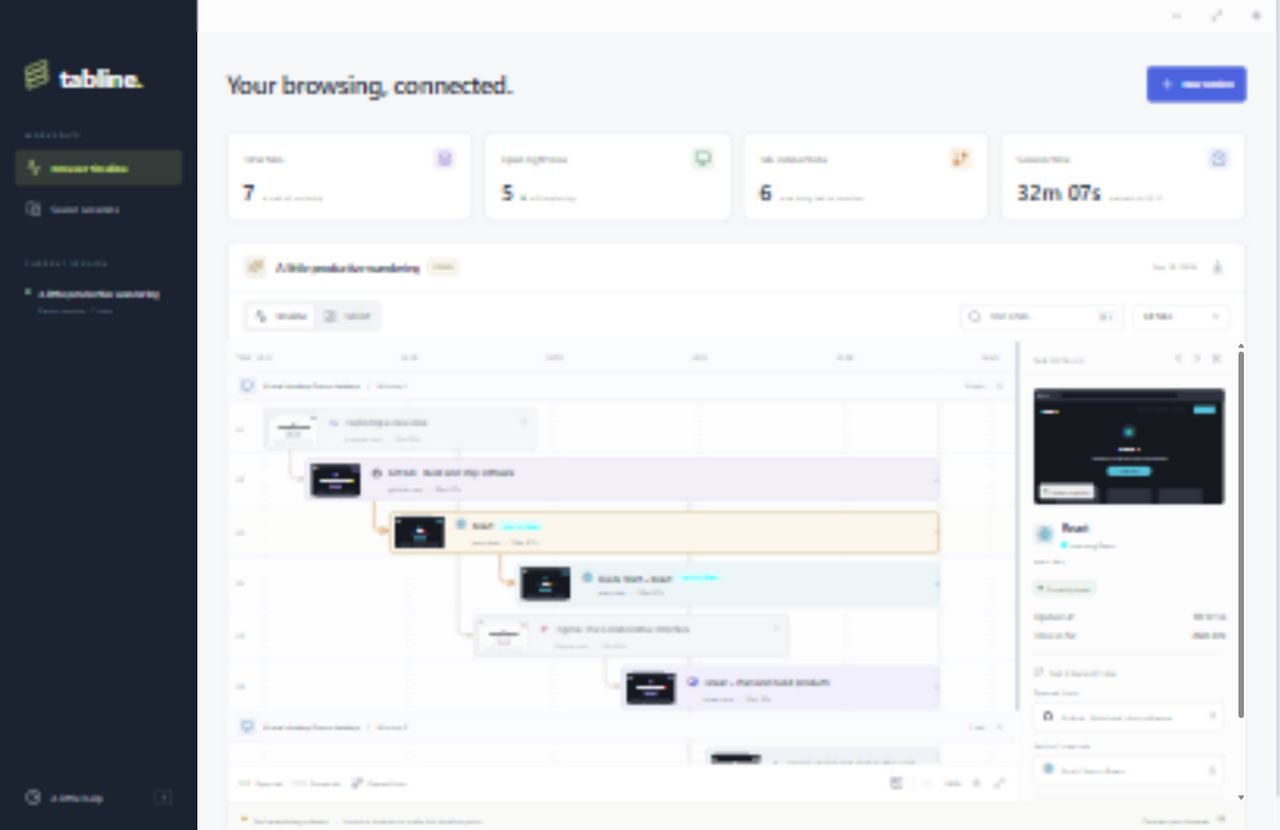
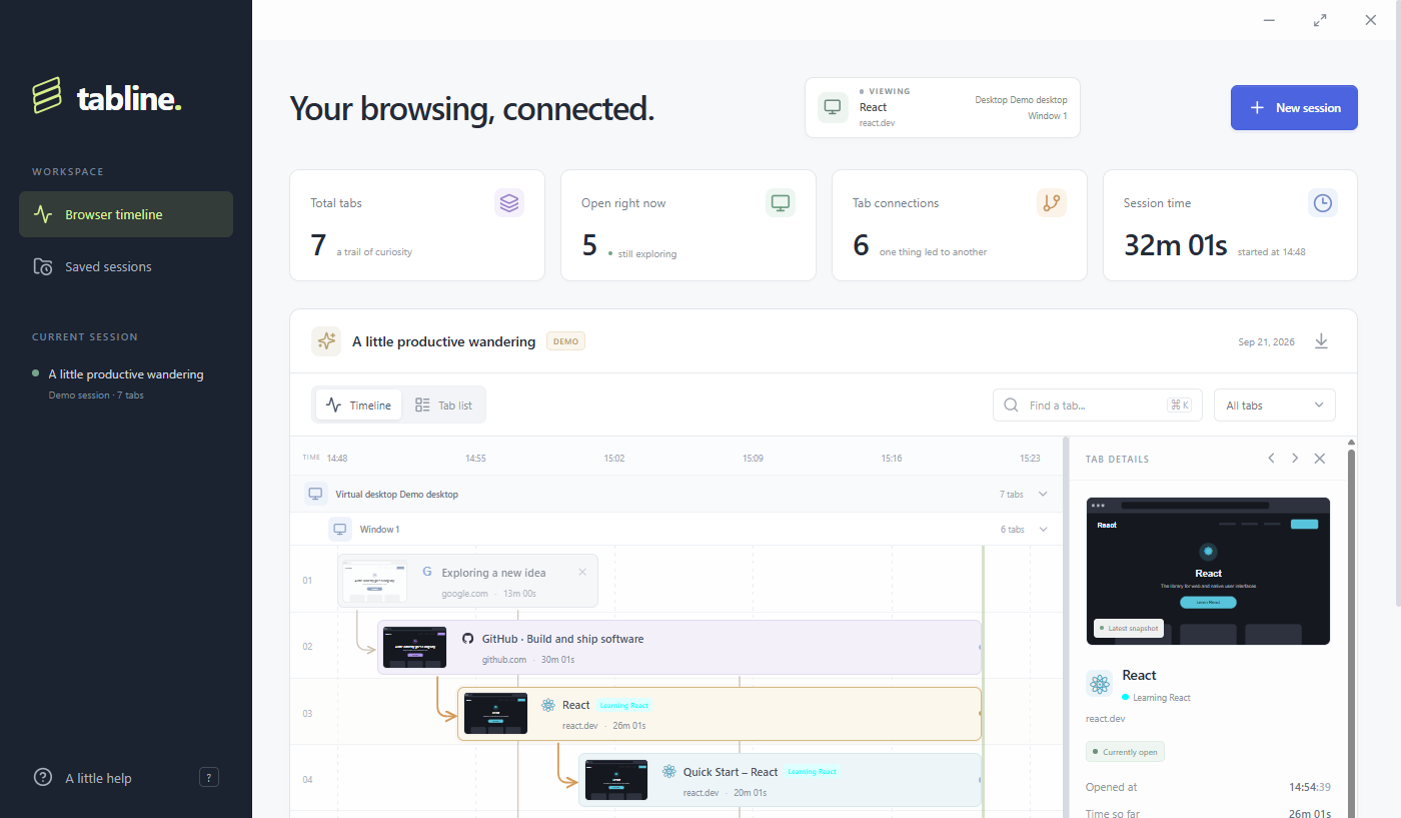
Release Tabline 0.1.5

diff --git a/src/App.tsx b/src/App.tsx
@@ -3,7 +3,7 @@ import {
   Activity, ArrowDownToLine, ArrowRight, ArrowUpRight, Check, ChevronDown,
   ChevronLeft, ChevronRight, CircleHelp, Clock3, ExternalLink, FolderClock, FolderOpen,
   FolderPlus, GitBranch, Globe2, Image, Layers3, LayoutList, Maximize2, Monitor,
-  Pencil, Plus, Radio, RefreshCw, Search, Settings2, ShieldCheck, Sparkles, Square, Trash2, X, Minus,
+  Pencil, Plus, Radio, RefreshCw, Search, Settings2, ShieldCheck, Snowflake, Sparkles, Square, Trash2, X, Minus,
 } from 'lucide-react';
 import type { AppState, BrowserChoice, BrowserTab, Folder, Session, SessionSummary } from './types';
 import { makeDemo } from './demo';
@@ -66,6 +66,7 @@ export default function App() {
   const [dragging, setDragging] = useState<{ type: 'folder' | 'session'; id: string } | null>(null);
   const [dropTarget, setDropTarget] = useState<string | null>(null);
   const [sessionDropTarget, setSessionDropTarget] = useState<{ id: string; position: 'before' | 'after' } | null>(null);
+  const [selectedSessionId, setSelectedSessionId] = useState<string | null>(null);
   const [editingSessionId, setEditingSessionId] = useState<string | null>(null);
   const [sessionName, setSessionName] = useState('');
   const [deletingSession, setDeletingSession] = useState<SessionSummary | null>(null);
@@ -124,6 +125,7 @@ export default function App() {
     if (!api) return;
     const [nextSessions, nextFolders] = await Promise.all([api.listSessions(), api.listFolders()]);
     setSessions(nextSessions);
+    setSelectedSessionId((id) => id && nextSessions.some((item) => item.id === id) ? id : null);
     setFolders(nextFolders);
   }
   async function restoreSessionById(id: string) {
@@ -134,6 +136,7 @@ export default function App() {
       setState(result.state);
       setArchived(null);
       setDemo(null);
+      setSelectedSessionId(null);
       setSelectedId(null);
       setPage('workspace');
       setQuery('');
@@ -261,7 +264,7 @@ export default function App() {
       {collapsed && <div className="folder-separator" style={{ marginLeft: contentIndent }}/>} 
     </div>;
   };
-  const renderSession = (item: SessionSummary, indent: number): React.ReactNode => <SessionRow key={item.id} item={item} options={folderOptions} indent={indent} onMove={moveSession} disabled={state.status !== 'idle' && state.status !== 'error'} dragging={dragging?.type === 'session' && dragging.id === item.id} dropPosition={sessionDropTarget?.id === item.id ? sessionDropTarget.position : null} onDragStart={(event) => beginDrag('session', item.id, event)} onDragEnd={endDrag} onDragOver={(event) => dragOverSession(item.id, event)} onDrop={(event) => dropOnSession(item.id, event)} onView={() => action(async () => { setArchived(await api!.loadSession(item.id)); setDemo(null); setSelectedId(null); setPage('workspace'); setQuery(''); setFilter('all'); })} onRestore={() => restoreSession(item)} editing={editingSessionId === item.id} sessionName={sessionName} onSessionNameChange={setSessionName} onRenameStart={() => startRenameSession(item)} onRenameSave={renameSession} onRenameCancel={cancelRenameSession} onDelete={() => setDeletingSession(item)}/>;
+  const renderSession = (item: SessionSummary, indent: number): React.ReactNode => <SessionRow key={item.id} item={item} options={folderOptions} indent={indent} onMove={moveSession} disabled={state.status !== 'idle' && state.status !== 'error'} selected={selectedSessionId === item.id} onSelect={() => setSelectedSessionId(item.id)} dragging={dragging?.type === 'session' && dragging.id === item.id} dropPosition={sessionDropTarget?.id === item.id ? sessionDropTarget.position : null} onDragStart={(event) => beginDrag('session', item.id, event)} onDragEnd={endDrag} onDragOver={(event) => dragOverSession(item.id, event)} onDrop={(event) => dropOnSession(item.id, event)} onView={() => action(async () => { setArchived(await api!.loadSession(item.id)); setDemo(null); setSelectedSessionId(null); setSelectedId(null); setPage('workspace'); setQuery(''); setFilter('all'); })} onRestore={() => restoreSession(item)} editing={editingSessionId === item.id} sessionName={sessionName} onSessionNameChange={setSessionName} onRenameStart={() => startRenameSession(item)} onRenameSave={renameSession} onRenameCancel={cancelRenameSession} onDelete={() => setDeletingSession(item)}/>;
 
   return <div className="app-shell">
     <header className="window-titlebar">
@@ -311,7 +314,7 @@ export default function App() {
                   {!session || !session.tabs.length ? <div className="empty-state launch-empty"><div className="empty-illustration"><span/><span/><span/><GitBranch size={30}/></div><span className="eyebrow">FOLLOW YOUR CURIOSITY</span><h3>Big ideas start with a new tab.</h3><p>Launch Helium or Chrome and watch your browsing<br/>journey come together, one connection at a time.</p><button className="button primary" onClick={() => setShowLaunch(true)}><Plus size={16}/>Launch a browser</button><button className="text-button" onClick={exploreDemo}>Or take a look around with a demo <ArrowRight size={14}/></button></div> : !filtered.length ? <div className="empty-state"><Search size={30}/><h3>No tabs on this trail.</h3><p>Try a different search or show all tabs.</p><button className="button secondary" onClick={() => { setQuery(''); setFilter('all'); }}>Clear filters</button></div> : view === 'timeline' ? <Timeline tabs={filtered} allTabs={session.tabs} session={session} now={sessionNow} time={restoreTime} onTimeChange={setTimelineTime} selectedId={selectedId} onSelect={setSelectedId} onFocus={focusTab} thumbnails={showThumbnails} connections={showConnections} zoom={zoom}/> : <TabList tabs={tabsAtTimelineTime} now={restoreTime} selectedId={selectedId} currentTabId={currentTab?.id || null} onSelect={setSelectedId} onFocus={focusTab}/>} 
                 <div className="timeline-footer"><div className="legend"><span><i className="legend-line open"/>Open tab</span><span><i className="legend-line closed"/>Closed tab</span><button className={!showConnections ? 'muted' : ''} onClick={() => setShowConnections(!showConnections)} title="Toggle opener connections"><GitBranch size={13}/>Opened from</button></div><div className="zoom-controls"><button className={!showThumbnails ? 'muted' : ''} onClick={() => setShowThumbnails(!showThumbnails)} title="Toggle thumbnails" aria-label="Toggle thumbnails" aria-pressed={showThumbnails}><Image size={15}/></button><span className="control-divider"/><button onClick={() => setZoom(Math.max(1, zoom - 0.5))} disabled={zoom === 1} aria-label="Zoom out"><Minus size={14}/></button><span>{Math.round(zoom * 100)}%</span><button onClick={() => setZoom(Math.min(4, zoom + 0.5))} disabled={zoom === 4} aria-label="Zoom in"><Plus size={14}/></button><button onClick={() => setZoom(1)} aria-label="Fit timeline" title="Fit timeline"><Maximize2 size={13}/></button></div></div>
               </div>
-              {selected && session && <TabDetail tab={selected} session={session} now={sessionNow} onClose={() => setSelectedId(null)} onSelect={setSelectedId} isLive={isLive} onFocus={() => action(() => api!.focusTab(selected.id))} onCapture={() => action(async () => { const image = await api!.capture(selected.id); if (!image) throw new Error('This tab is no longer available for capture.'); }, 'Thumbnail refreshed.')} onCloseTab={() => action(() => api!.closeTab(selected.id), 'Tab closed. Its place in your timeline is saved.')}/>}
+              {selected && session && <TabDetail tab={selected} session={session} now={sessionNow} onClose={() => setSelectedId(null)} onSelect={setSelectedId} isLive={isLive} onFocus={() => action(() => api!.focusTab(selected.id))} onCapture={() => action(async () => { const image = await api!.capture(selected.id); if (!image) throw new Error('This tab is no longer available for capture.'); }, 'Thumbnail refreshed.')} onFreeze={() => action(async () => { const result = await api!.freezeTab(selected.id); if (!result.shortUrl) throw new Error('This tab could not be frozen.'); }, 'Tab frozen into a local snapshot.')} onUnfreeze={() => action(async () => { const result = await api!.unfreezeTab(selected.id); if (!result.originalUrl) throw new Error('This tab could not be returned.'); }, 'Returned to the original page.')} onCloseTab={() => action(() => api!.closeTab(selected.id), 'Tab closed. Its place in your timeline is saved.')}/>}
             </div>
             <div className="connection-bar"><div><span className={`tiny-dot ${isLive ? 'green' : demo ? 'orange' : 'gray'}`}/>{demo ? <><strong>You’re exploring a demo</strong><span>·</span><span>Launch a browser to make this timeline yours.</span></> : isLive ? <><strong>Connected to {session?.browser === 'helium' ? 'Helium' : 'Chrome'}</strong><span>·</span><span>127.0.0.1:{state.debugPort}</span></> : <><strong>{archived || session?.endedAt ? 'Session saved locally' : 'Ready to connect'}</strong><span>·</span><span>{archived || session?.endedAt ? 'Your trail is right where you left it.' : 'Helium or Chrome. Your choice.'}</span></>}</div>{demo ? <button onClick={() => setShowLaunch(true)}>Connect your browser <ArrowRight size={13}/></button> : <span className="connection-note"><ShieldCheck size={13}/>{isLive ? 'Recording locally' : 'Only on your device'}</span>}</div>
           </section>
@@ -330,6 +333,38 @@ function Stat({ icon, label, value, detail, color }: { icon: React.ReactNode; la
   return <div className="stat-card"><div className="stat-top"><span>{label}</span><span className={`stat-icon ${color}`}>{icon}</span></div><div className="stat-value">{value}<span className="stat-detail">{detail}</span></div></div>;
 }
 
+type WindowTabGroup = { key: string; window: string; tabs: BrowserTab[] };
+type DesktopTabGroup = { key: string; desktop: string; tabs: BrowserTab[]; windows: WindowTabGroup[] };
+
+function groupTabsByDesktop(tabs: BrowserTab[]): DesktopTabGroup[] {
+  const desktops = new Map<string, DesktopTabGroup>();
+  for (const tab of tabs) {
+    const desktop = tab.desktopId || 'unknown';
+    const window = tab.windowId || 'unknown';
+    let desktopGroup = desktops.get(desktop);
+    if (!desktopGroup) {
+      desktopGroup = { key: `desktop:${desktop}`, desktop, tabs: [], windows: [] };
+      desktops.set(desktop, desktopGroup);
+    }
+    let windowGroup = desktopGroup.windows.find((group) => group.window === window);
+    if (!windowGroup) {
+      windowGroup = { key: `window:${desktop}:${window}`, window, tabs: [] };
+      desktopGroup.windows.push(windowGroup);
+    }
+    desktopGroup.tabs.push(tab);
+    windowGroup.tabs.push(tab);
+  }
+  return [...desktops.values()];
+}
+
+function locationLabel(value: string, unavailable: string) {
+  return value === 'unknown' ? unavailable : value;
+}
+
+function desktopLabel(value: string) {
+  return value === 'unknown' ? 'Virtual desktop unavailable' : `Virtual desktop ${value.length > 14 ? `${value.slice(0, 8)}...` : value}`;
+}
+
 function CurrentContext({ tab, live }: { tab: BrowserTab | null; live: boolean }) {
   const desktop = tab?.desktopId && tab.desktopId !== 'unknown' ? tab.desktopId : null;
   const desktopLabel = desktop ? (desktop.length > 14 ? `${desktop.slice(0, 8)}...` : desktop) : 'Unavailable';
@@ -338,44 +373,30 @@ function CurrentContext({ tab, live }: { tab: BrowserTab | null; live: boolean }
 
 function TabList({ tabs, now, selectedId, currentTabId, onSelect, onFocus }: { tabs: BrowserTab[]; now: number; selectedId: string | null; currentTabId: string | null; onSelect: (id: string) => void; onFocus: (id: string) => void }) {
   const [collapsed, setCollapsed] = useState<Set<string>>(new Set());
-  const groups = Array.from(tabs.reduce((map, tab) => {
-    const key = `${tab.desktopId || 'unknown'}::${tab.windowId || 'unknown'}`;
-    if (!map.has(key)) map.set(key, []);
-    map.get(key)!.push(tab);
-    return map;
-  }, new Map<string, BrowserTab[]>()).entries());
   const toggle = (key: string) => setCollapsed((prev) => {
     const next = new Set(prev);
     if (next.has(key)) next.delete(key); else next.add(key);
     return next;
   });
-  return <div className="tab-list"><div className="tab-list-heading"><span>PAGE</span><span>OPENED</span><span>DURATION</span><span>STATUS</span></div>{groups.map(([key, group]) => { const [desktop, window] = key.split('::'); const current = group.some((tab) => tab.id === currentTabId); const isCollapsed = collapsed.has(key); return <Fragment key={key}><button type="button" className={`tab-list-separator ${current ? 'current' : ''} ${isCollapsed ? 'collapsed' : ''}`} title={desktop === 'unknown' ? undefined : desktop} onClick={() => toggle(key)} aria-expanded={!isCollapsed}><span className="group-mark"><Monitor size={12}/></span><strong>{desktop === 'unknown' ? 'Virtual desktop unavailable' : `Virtual desktop ${desktop.length > 14 ? `${desktop.slice(0, 8)}...` : desktop}`}</strong><span className="group-separator">/</span><span>Window {window === 'unknown' ? 'unknown' : window}</span><span className="group-count">{group.length} {group.length === 1 ? 'tab' : 'tabs'}</span>{current && <span className="current-group-label">CURRENT</span>}<span className="separator-chevron">{isCollapsed ? <ChevronRight size={12}/> : <ChevronDown size={12}/>}</span></button>{!isCollapsed && group.map((tab) => <button key={tab.id} className={`tab-list-row ${tab.id === selectedId ? 'selected' : ''} ${tab.id === currentTabId ? 'current' : ''}`} onClick={() => onSelect(tab.id)} onDoubleClick={() => { if (!tab.closedAt) onFocus(tab.id); }}><div className="tab-list-title"><SiteIcon tab={tab}/><div><strong>{tab.title}</strong><span>{domain(tab.originalUrl || tab.url)}</span></div></div><span>{clock(tab.openedAt)}</span><span>{duration((tab.closedAt || now) - tab.openedAt)}</span><span className={`status-label ${tab.closedAt ? 'closed' : tab.frozen ? 'frozen' : 'open'}`}><span className="tiny-dot"/>{tab.closedAt ? 'Closed' : tab.frozen ? 'Frozen' : 'Open'}</span></button>)}</Fragment>; })}</div>;
+  const groups = groupTabsByDesktop(tabs);
+  return <div className="tab-list"><div className="tab-list-heading"><span>PAGE</span><span>OPENED</span><span>DURATION</span><span>STATUS</span></div>{groups.map((desktopGroup) => { const desktopCollapsed = collapsed.has(desktopGroup.key); const current = desktopGroup.tabs.some((tab) => tab.id === currentTabId); return <Fragment key={desktopGroup.key}><button type="button" className={`tab-list-separator desktop-separator ${current ? 'current' : ''} ${desktopCollapsed ? 'collapsed' : ''}`} title={desktopGroup.desktop === 'unknown' ? undefined : desktopGroup.desktop} onClick={() => toggle(desktopGroup.key)} aria-expanded={!desktopCollapsed}><span className="group-mark"><Monitor size={12}/></span><strong>{desktopLabel(desktopGroup.desktop)}</strong><span className="group-count">{desktopGroup.tabs.length} {desktopGroup.tabs.length === 1 ? 'tab' : 'tabs'}</span>{current && <span className="current-group-label">CURRENT</span>}<span className="separator-chevron">{desktopCollapsed ? <ChevronRight size={12}/> : <ChevronDown size={12}/>}</span></button>{!desktopCollapsed && desktopGroup.windows.map((windowGroup) => { const windowCollapsed = collapsed.has(windowGroup.key); return <Fragment key={windowGroup.key}><button type="button" className={`tab-list-separator window-separator ${windowGroup.tabs.some((tab) => tab.id === currentTabId) ? 'current' : ''} ${windowCollapsed ? 'collapsed' : ''}`} onClick={() => toggle(windowGroup.key)} aria-expanded={!windowCollapsed}><span className="group-mark"><Monitor size={11}/></span><span>Window {locationLabel(windowGroup.window, 'unknown')}</span><span className="group-count">{windowGroup.tabs.length} {windowGroup.tabs.length === 1 ? 'tab' : 'tabs'}</span><span className="separator-chevron">{windowCollapsed ? <ChevronRight size={12}/> : <ChevronDown size={12}/>}</span></button>{!windowCollapsed && windowGroup.tabs.map((tab) => <button key={tab.id} className={`tab-list-row ${tab.id === selectedId ? 'selected' : ''} ${tab.id === currentTabId ? 'current' : ''}`} onClick={() => onSelect(tab.id)} onDoubleClick={() => { if (!tab.closedAt) onFocus(tab.id); }}><div className="tab-list-title"><SiteIcon tab={tab}/><div><strong>{tab.title}</strong><span>{domain(tab.originalUrl || tab.url)}</span></div></div><span>{clock(tab.openedAt)}</span><span>{duration((tab.closedAt || now) - tab.openedAt)}</span><span className={`status-label ${tab.closedAt ? 'closed' : tab.frozen ? 'frozen' : 'open'}`}><span className="tiny-dot"/>{tab.closedAt ? 'Closed' : tab.frozen ? 'Frozen' : 'Open'}</span></button>)}</Fragment>; })}</Fragment>; })}</div>;
 }
 
-function SessionRow({ item, options, onMove, onView, onRestore, disabled, indent, dragging, dropPosition, onDragStart, onDragEnd, onDragOver, onDrop, editing, sessionName, onSessionNameChange, onRenameStart, onRenameSave, onRenameCancel, onDelete }: { item: SessionSummary; options: { folder: Folder; depth: number }[]; onMove: (sessionId: string, folderId: string | null) => void; onView: () => void; onRestore: () => void; disabled: boolean; indent: number; dragging: boolean; dropPosition: 'before' | 'after' | null; onDragStart: (event: React.DragEvent) => void; onDragEnd: () => void; onDragOver: (event: React.DragEvent) => void; onDrop: (event: React.DragEvent) => void; editing: boolean; sessionName: string; onSessionNameChange: (value: string) => void; onRenameStart: () => void; onRenameSave: () => void; onRenameCancel: () => void; onDelete: () => void }) {
-  return <div className={`saved-session ${dragging ? 'dragging' : ''} ${dropPosition ? `drop-${dropPosition}` : ''} ${editing ? 'editing' : ''}`} style={{ paddingLeft: indent }} onDragOver={onDragOver} onDrop={onDrop}>{editing ? <div className="session-rename"><input autoFocus aria-label="Rename session" value={sessionName} onChange={(event) => onSessionNameChange(event.target.value)} onKeyDown={(event) => { if (event.key === 'Enter') onRenameSave(); if (event.key === 'Escape') onRenameCancel(); }}/><button onClick={onRenameSave} aria-label="Save session name"><Check size={14}/></button><button onClick={onRenameCancel} aria-label="Cancel"><X size={14}/></button></div> : <><button className="saved-session-view" draggable onClick={onView} onDragStart={onDragStart} onDragEnd={onDragEnd} title="Drag to reorder"><span className="saved-session-icon"><FolderClock size={22}/></span><div><strong>{item.name}</strong><span>{date(item.startedAt)} · {clock(item.startedAt)} · {item.browser === 'helium' ? 'Helium' : 'Chrome'}</span></div><span>{item.tabCount} tabs</span><ArrowRight size={18}/></button><label className="saved-session-folder" title="Move to folder"><FolderOpen size={13}/><span className="select-wrap"><select aria-label={`Move ${item.name} to folder`} value={item.folderId || ''} onChange={(event) => onMove(item.id, event.target.value || null)}><option value="">Unfiled</option>{options.map(({ folder, depth: optionDepth }) => <option key={folder.id} value={folder.id}>{'\u00A0'.repeat(optionDepth * 2)}{folder.name}</option>)}</select><ChevronDown size={13}/></span></label><div className="saved-session-actions"><button onClick={onRenameStart} aria-label={`Rename ${item.name}`} title="Rename session"><Pencil size={13}/></button><button onClick={onDelete} aria-label={`Delete ${item.name}`} title="Delete session"><Trash2 size={13}/></button></div><button className="button secondary restore-session" disabled={disabled} onClick={onRestore}><RefreshCw size={14}/>Restore</button></>}</div>;
+function SessionRow({ item, options, onMove, onView, onRestore, disabled, indent, selected, onSelect, dragging, dropPosition, onDragStart, onDragEnd, onDragOver, onDrop, editing, sessionName, onSessionNameChange, onRenameStart, onRenameSave, onRenameCancel, onDelete }: { item: SessionSummary; options: { folder: Folder; depth: number }[]; onMove: (sessionId: string, folderId: string | null) => void; onView: () => void; onRestore: () => void; disabled: boolean; indent: number; selected: boolean; onSelect: () => void; dragging: boolean; dropPosition: 'before' | 'after' | null; onDragStart: (event: React.DragEvent) => void; onDragEnd: () => void; onDragOver: (event: React.DragEvent) => void; onDrop: (event: React.DragEvent) => void; editing: boolean; sessionName: string; onSessionNameChange: (value: string) => void; onRenameStart: () => void; onRenameSave: () => void; onRenameCancel: () => void; onDelete: () => void }) {
+  return <div className={`saved-session ${selected ? 'selected' : ''} ${dragging ? 'dragging' : ''} ${dropPosition ? `drop-${dropPosition}` : ''} ${editing ? 'editing' : ''}`} style={{ paddingLeft: indent }} onDragOver={onDragOver} onDrop={onDrop}>{editing ? <div className="session-rename"><input autoFocus aria-label="Rename session" value={sessionName} onChange={(event) => onSessionNameChange(event.target.value)} onKeyDown={(event) => { if (event.key === 'Enter') onRenameSave(); if (event.key === 'Escape') onRenameCancel(); }}/><button onClick={onRenameSave} aria-label="Save session name"><Check size={14}/></button><button onClick={onRenameCancel} aria-label="Cancel"><X size={14}/></button></div> : <><button className="saved-session-view" draggable onClick={onSelect} onDoubleClick={onView} onDragStart={onDragStart} onDragEnd={onDragEnd} title="Click to select, double-click to open"><span className="saved-session-icon"><FolderClock size={22}/></span><div><strong>{item.name}</strong><span>{date(item.startedAt)} · {clock(item.startedAt)} · {item.browser === 'helium' ? 'Helium' : 'Chrome'}</span></div><span>{item.tabCount} tabs</span><ArrowRight size={18}/></button><label className="saved-session-folder" title="Move to folder"><FolderOpen size={13}/><span className="select-wrap"><select aria-label={`Move ${item.name} to folder`} value={item.folderId || ''} onChange={(event) => onMove(item.id, event.target.value || null)}><option value="">Unfiled</option>{options.map(({ folder, depth: optionDepth }) => <option key={folder.id} value={folder.id}>{'\u00A0'.repeat(optionDepth * 2)}{folder.name}</option>)}</select><ChevronDown size={13}/></span></label><div className="saved-session-actions"><button onClick={onRenameStart} aria-label={`Rename ${item.name}`} title="Rename session"><Pencil size={13}/></button><button onClick={onDelete} aria-label={`Delete ${item.name}`} title="Delete session"><Trash2 size={13}/></button></div><button className="button secondary restore-session" disabled={disabled} onClick={onRestore}><RefreshCw size={14}/>Restore</button></>}</div>;
 }
 
 function Timeline({ tabs, allTabs, session, now, time, onTimeChange, selectedId, onSelect, onFocus, thumbnails, connections, zoom }: { tabs: BrowserTab[]; allTabs: BrowserTab[]; session: Session; now: number; time: number; onTimeChange: (time: number) => void; selectedId: string | null; onSelect: (id: string) => void; onFocus: (id: string) => void; thumbnails: boolean; connections: boolean; zoom: number }) {
   const [collapsed, setCollapsed] = useState<Set<string>>(new Set());
-  const groups = Array.from(tabs.reduce((map, tab) => {
-    const key = `${tab.desktopId || 'unknown'}::${tab.windowId || 'unknown'}`;
-    if (!map.has(key)) map.set(key, []);
-    map.get(key)!.push(tab);
-    return map;
-  }, new Map<string, BrowserTab[]>()).entries()).map(([key, group]) => {
-    const [desktop, window] = key.split('::');
-    return { key, desktop, window, tabs: group };
-  });
   const toggle = (key: string) => setCollapsed((prev) => {
     const next = new Set(prev);
     if (next.has(key)) next.delete(key); else next.add(key);
     return next;
   });
-  return <TimelineCanvas groups={groups} allTabs={allTabs} session={session} now={now} time={time} onTimeChange={onTimeChange} selectedId={selectedId} onSelect={onSelect} onFocus={onFocus} thumbnails={thumbnails} connections={connections} zoom={zoom} collapsed={collapsed} onToggle={toggle}/>;
+  return <TimelineCanvas groups={groupTabsByDesktop(tabs)} allTabs={allTabs} session={session} now={now} time={time} onTimeChange={onTimeChange} selectedId={selectedId} onSelect={onSelect} onFocus={onFocus} thumbnails={thumbnails} connections={connections} zoom={zoom} collapsed={collapsed} onToggle={toggle}/>;
 }
 
-function TimelineCanvas({ groups, allTabs, session, now, time, onTimeChange, selectedId, onSelect, onFocus, thumbnails, connections, zoom, collapsed, onToggle }: { groups: { key: string; desktop: string; window: string; tabs: BrowserTab[] }[]; allTabs: BrowserTab[]; session: Session; now: number; time: number; onTimeChange: (time: number) => void; selectedId: string | null; onSelect: (id: string) => void; onFocus: (id: string) => void; thumbnails: boolean; connections: boolean; zoom: number; collapsed: Set<string>; onToggle: (key: string) => void }) {
+function TimelineCanvas({ groups, allTabs, session, now, time, onTimeChange, selectedId, onSelect, onFocus, thumbnails, connections, zoom, collapsed, onToggle }: { groups: DesktopTabGroup[]; allTabs: BrowserTab[]; session: Session; now: number; time: number; onTimeChange: (time: number) => void; selectedId: string | null; onSelect: (id: string) => void; onFocus: (id: string) => void; thumbnails: boolean; connections: boolean; zoom: number; collapsed: Set<string>; onToggle: (key: string) => void }) {
   const viewportRef = useRef<HTMLDivElement>(null);
   const canvasRef = useRef<HTMLDivElement>(null);
   const [draggingTime, setDraggingTime] = useState(false);
@@ -413,26 +434,47 @@ function TimelineCanvas({ groups, allTabs, session, now, time, onTimeChange, sel
   const headerHeight = 35;
   const headingHeight = 34;
 
-  const sections = groups.map((group) => ({ ...group, isCollapsed: collapsed.has(group.key) }));
+  const sections = groups.map((group) => ({ ...group, isCollapsed: collapsed.has(group.key), windows: group.windows.map((window) => ({ ...window, isCollapsed: collapsed.has(window.key) })) }));
   let cursor = headerHeight;
   const rowY = new Map<string, number>();
   const visibleTabs: BrowserTab[] = [];
   for (const section of sections) {
     cursor += headingHeight;
     if (!section.isCollapsed) {
-      for (const tab of section.tabs) {
-        rowY.set(tab.id, cursor + rowHeight / 2);
-        visibleTabs.push(tab);
-        cursor += rowHeight;
+      for (const window of section.windows) {
+        cursor += headingHeight;
+        if (!window.isCollapsed) {
+          for (const tab of window.tabs) {
+            rowY.set(tab.id, cursor + rowHeight / 2);
+            visibleTabs.push(tab);
+            cursor += rowHeight;
+          }
+        }
       }
     }
   }
   const contentHeight = Math.max(460, cursor + 34);
 
+  const renderTab = (tab: BrowserTab) => {
+    const left = x(tab.openedAt);
+    const barWidth = Math.max(8, x(tab.closedAt || now) - left);
+    const showImage = thumbnails && barWidth > 160;
+    const number = allTabs.findIndex((item) => item.id === tab.id) + 1;
+    return <div className={`timeline-row ${selectedId === tab.id ? 'selected' : ''}`} key={tab.id} style={{ height: rowHeight }}>
+      <span className="row-number">{String(number).padStart(2, '0')}</span>
+      <button title={`${tab.title}\n${tab.originalUrl || tab.url}\nOpened ${clock(tab.openedAt)}${tab.closedAt ? ` · Closed ${clock(tab.closedAt)}` : ' · Still open'}${tab.frozen ? '\nFrozen snapshot' : ''}${tab.groupTitle ? `\nGroup: ${tab.groupTitle}` : ''}`} aria-label={`View ${tab.title}`} className={`tab-bar ${siteColor(tab)} ${tab.closedAt ? 'is-closed' : ''} ${tab.frozen ? 'is-frozen' : ''} ${selectedId === tab.id ? 'is-selected' : ''} ${barWidth < 120 ? 'compact' : ''}`} style={{ left, width: barWidth }} onClick={() => onSelect(tab.id)} onDoubleClick={() => { if (!tab.closedAt) onFocus(tab.id); }}>
+        {showImage && <span className="bar-thumbnail">{tab.thumbnail ? <img src={tab.thumbnail} alt={`Thumbnail of ${tab.title}`}/> : <Globe2 size={23}/>}</span>}
+        <span className="bar-content"><span className="bar-title"><SiteIcon tab={tab} size="small"/><strong>{tab.title}</strong>{tab.frozen && <span className="group-chip frozen-chip">FROZEN</span>}{tab.groupTitle && <span className="group-chip" style={{ '--group-color': tab.groupColor || '#9ca8bb' } as React.CSSProperties}>{tab.groupTitle}</span>}{tab.closedAt && barWidth > 200 && <X size={11}/>}</span><span className="bar-subtitle">{domain(tab.originalUrl || tab.url)}<span>·</span>{duration((tab.closedAt || now) - tab.openedAt)}</span></span>
+        {!tab.closedAt && <span className="bar-end-dot"/>}
+      </button>
+      {barWidth < 120 && <button className="overflow-tab-label" style={{ left: Math.min(left + barWidth + 7, width - 115) }} onClick={() => onSelect(tab.id)} onDoubleClick={() => { if (!tab.closedAt) onFocus(tab.id); }}>{siteName(tab)}</button>}
+    </div>;
+  };
+
   return <div className="timeline-scroll" ref={viewportRef}><div className="timeline-canvas" ref={canvasRef} style={{ width, minHeight: contentHeight }}>
-     <div className="axis-header"><span className="axis-start">TIME</span>{Array.from({ length: 6 }, (_, i) => <span key={i} style={{ left: padding + i * plotWidth / 5 }}>{clock(session.startedAt + span * i / 5)}</span>)}</div>
-     <div className="grid-lines">{Array.from({ length: 6 }, (_, i) => <i key={i} style={{ left: padding + i * plotWidth / 5 }}/>)}</div>
-     <div className={`now-line ${draggingTime ? 'dragging' : ''}`} style={{ left: nowX }} role="slider" aria-label="Timeline position" aria-valuemin={session.startedAt} aria-valuemax={session.endedAt || now} aria-valuenow={time} tabIndex={0} onPointerDown={startTimeDrag} onPointerMove={moveTimeDrag} onPointerUp={endTimeDrag} onPointerCancel={endTimeDrag} onKeyDown={(event) => { if (event.key === 'ArrowLeft' || event.key === 'ArrowRight') { event.preventDefault(); const step = Math.max(1000, Math.round(span / 100)); onTimeChange(Math.max(session.startedAt, Math.min(session.endedAt || now, time + (event.key === 'ArrowRight' ? step : -step)))); } }}><span>{clock(time)}</span><i/></div>
+    <div className="axis-header"><span className="axis-start">TIME</span>{Array.from({ length: 6 }, (_, i) => <span key={i} style={{ left: padding + i * plotWidth / 5 }}>{clock(session.startedAt + span * i / 5)}</span>)}</div>
+    <div className="grid-lines">{Array.from({ length: 6 }, (_, i) => <i key={i} style={{ left: padding + i * plotWidth / 5 }}/>)}</div>
+    <div className={`now-line ${draggingTime ? 'dragging' : ''}`} style={{ left: nowX }} role="slider" aria-label="Timeline position" aria-valuemin={session.startedAt} aria-valuemax={session.endedAt || now} aria-valuenow={time} tabIndex={0} onPointerDown={startTimeDrag} onPointerMove={moveTimeDrag} onPointerUp={endTimeDrag} onPointerCancel={endTimeDrag} onKeyDown={(event) => { if (event.key === 'ArrowLeft' || event.key === 'ArrowRight') { event.preventDefault(); const step = Math.max(1000, Math.round(span / 100)); onTimeChange(Math.max(session.startedAt, Math.min(session.endedAt || now, time + (event.key === 'ArrowRight' ? step : -step)))); } }}><span>{clock(time)}</span><i/></div>
     {connections && <svg className="connections" width={width} height={contentHeight} aria-label="Tab opener connections"><defs><marker id="arrow" markerWidth="7" markerHeight="7" refX="5" refY="3" orient="auto"><path d="M0,0 L6,3 L0,6" fill="none" stroke="#b09a7b" strokeWidth="1.2"/></marker><marker id="arrow-selected" markerWidth="7" markerHeight="7" refX="5" refY="3" orient="auto"><path d="M0,0 L6,3 L0,6" fill="none" stroke="#d49b58" strokeWidth="1.2"/></marker></defs>{visibleTabs.map((tab) => {
       const openerId = tab.openerId;
       if (!openerId) return null;
@@ -448,18 +490,18 @@ function TimelineCanvas({ groups, allTabs, session, now, time, onTimeChange, sel
       const active = tab.id === selectedId || tab.openerId === selectedId;
       return <path key={tab.id} d={`M ${sourceX} ${sourceY} L ${sourceX} ${targetY - bend} Q ${sourceX} ${targetY} ${sourceX + 9} ${targetY} L ${targetX - 3} ${targetY}`} stroke={active ? '#d49b58' : '#b7aa98'} strokeWidth={active ? 1.6 : 1.2} opacity={active ? 1 : 0.65} fill="none" markerEnd={`url(#${active ? 'arrow-selected' : 'arrow'})`}/>;
     })}</svg>}
-    <div className="timeline-rows">{sections.map((section) => <Fragment key={section.key}><button type="button" className={`timeline-separator ${section.isCollapsed ? 'collapsed' : ''}`} onClick={() => onToggle(section.key)} aria-expanded={!section.isCollapsed}><span className="group-mark"><Monitor size={13}/></span><strong>{section.desktop === 'unknown' ? 'Virtual desktop not available' : `Virtual desktop ${section.desktop}`}</strong><span className="group-separator">/</span><span>Window {section.window === 'unknown' ? 'unknown' : section.window}</span><span className="group-count">{section.tabs.length} {section.tabs.length === 1 ? 'tab' : 'tabs'}</span><span className="separator-chevron">{section.isCollapsed ? <ChevronRight size={13}/> : <ChevronDown size={13}/>}</span></button>{!section.isCollapsed && section.tabs.map((tab) => {
-      const left = x(tab.openedAt);
-      const barWidth = Math.max(8, x(tab.closedAt || now) - left);
-      const showImage = thumbnails && barWidth > 160;
-      const number = allTabs.findIndex((item) => item.id === tab.id) + 1;
-        return <div className={`timeline-row ${selectedId === tab.id ? 'selected' : ''}`} key={tab.id} style={{ height: rowHeight }}><span className="row-number">{String(number).padStart(2, '0')}</span><button title={`${tab.title}\n${tab.originalUrl || tab.url}\nOpened ${clock(tab.openedAt)}${tab.closedAt ? ` · Closed ${clock(tab.closedAt)}` : ' · Still open'}${tab.frozen ? '\nFrozen snapshot' : ''}${tab.groupTitle ? `\nGroup: ${tab.groupTitle}` : ''}`} aria-label={`View ${tab.title}`} className={`tab-bar ${siteColor(tab)} ${tab.closedAt ? 'is-closed' : ''} ${tab.frozen ? 'is-frozen' : ''} ${selectedId === tab.id ? 'is-selected' : ''} ${barWidth < 120 ? 'compact' : ''}`} style={{ left, width: barWidth }} onClick={() => onSelect(tab.id)} onDoubleClick={() => { if (!tab.closedAt) onFocus(tab.id); }}>{showImage && <span className="bar-thumbnail">{tab.thumbnail ? <img src={tab.thumbnail} alt={`Thumbnail of ${tab.title}`}/> : <Globe2 size={23}/>}</span>}<span className="bar-content"><span className="bar-title"><SiteIcon tab={tab} size="small"/><strong>{tab.title}</strong>{tab.frozen && <span className="group-chip frozen-chip">FROZEN</span>}{tab.groupTitle && <span className="group-chip" style={{ '--group-color': tab.groupColor || '#9ca8bb' } as React.CSSProperties}>{tab.groupTitle}</span>}{tab.closedAt && barWidth > 200 && <X size={11}/>}</span><span className="bar-subtitle">{domain(tab.originalUrl || tab.url)}<span>·</span>{duration((tab.closedAt || now) - tab.openedAt)}</span></span>{!tab.closedAt && <span className="bar-end-dot"/>}</button>{barWidth < 120 && <button className="overflow-tab-label" style={{ left: Math.min(left + barWidth + 7, width - 115) }} onClick={() => onSelect(tab.id)} onDoubleClick={() => { if (!tab.closedAt) onFocus(tab.id); }}>{siteName(tab)}</button>}</div>;
-    })}</Fragment>)}</div>
+    <div className="timeline-rows">{sections.map((section) => <Fragment key={section.key}>
+      <button type="button" className={`timeline-separator desktop-separator ${section.isCollapsed ? 'collapsed' : ''}`} onClick={() => onToggle(section.key)} aria-expanded={!section.isCollapsed}><span className="group-mark"><Monitor size={13}/></span><strong>{desktopLabel(section.desktop)}</strong><span className="group-count">{section.tabs.length} {section.tabs.length === 1 ? 'tab' : 'tabs'}</span><span className="separator-chevron">{section.isCollapsed ? <ChevronRight size={13}/> : <ChevronDown size={13}/>}</span></button>
+      {!section.isCollapsed && section.windows.map((window) => <Fragment key={window.key}>
+        <button type="button" className={`timeline-separator timeline-window-separator ${window.isCollapsed ? 'collapsed' : ''}`} onClick={() => onToggle(window.key)} aria-expanded={!window.isCollapsed}><span className="group-mark"><Monitor size={12}/></span><strong>Window {locationLabel(window.window, 'unknown')}</strong><span className="group-count">{window.tabs.length} {window.tabs.length === 1 ? 'tab' : 'tabs'}</span><span className="separator-chevron">{window.isCollapsed ? <ChevronRight size={12}/> : <ChevronDown size={12}/>}</span></button>
+        {!window.isCollapsed && window.tabs.map(renderTab)}
+      </Fragment>)}
+    </Fragment>)}</div>
     <div className="timeline-start-note" style={{ left: padding }}><span/>The start of something</div>
   </div></div>;
 }
 
-function TabDetail({ tab, session, now, onClose, onSelect, isLive, onFocus, onCapture, onCloseTab }: { tab: BrowserTab; session: Session; now: number; onClose: () => void; onSelect: (id: string) => void; isLive: boolean; onFocus: () => void; onCapture: () => void; onCloseTab: () => void }) {
+function TabDetail({ tab, session, now, onClose, onSelect, isLive, onFocus, onCapture, onFreeze, onUnfreeze, onCloseTab }: { tab: BrowserTab; session: Session; now: number; onClose: () => void; onSelect: (id: string) => void; isLive: boolean; onFocus: () => void; onCapture: () => void; onFreeze: () => void; onUnfreeze: () => void; onCloseTab: () => void }) {
   const [busy, setBusy] = useState(false);
   const opener = session.tabs.find((item) => item.id === tab.openerId);
   const children = session.tabs.filter((item) => item.openerId === tab.id);
@@ -472,7 +514,7 @@ function TabDetail({ tab, session, now, onClose, onSelect, isLive, onFocus, onCa
     <div className="detail-section navigation-section"><div className="detail-section-label"><Clock3 size={14}/><span>PAGE HISTORY</span><span className="count-pill">{tab.navigations.length}</span></div>{tab.navigations.slice(-4).reverse().map((nav, i) => <div className="navigation-item" key={`${nav.at}-${i}`}><span className="navigation-dot"/><div><strong title={nav.url}>{nav.title || domain(nav.url)}</strong><span>{clock(nav.at)}</span></div></div>)}{tab.navigations.length > 4 && <span className="history-more">+ {tab.navigations.length - 4} earlier pages in the export</span>}</div>
     {tab.groupHistory.length > 1 && <div className="detail-section navigation-section"><div className="detail-section-label"><Layers3 size={14}/><span>GROUP HISTORY</span><span className="count-pill">{tab.groupHistory.length - 1}</span></div>{tab.groupHistory.slice(1).reverse().map((group, i) => <div className="navigation-item" key={`${group.at}-${i}`}><span className="navigation-dot"/><div><strong>{group.title || 'Removed from tab group'}</strong><span>{clock(group.at)} · group membership event</span></div></div>)}</div>}
     {tab.windowHistory.length > 1 && <div className="detail-section navigation-section"><div className="detail-section-label"><Monitor size={14}/><span>WINDOW MOVEMENT</span><span className="count-pill">{tab.windowHistory.length - 1}</span></div>{tab.windowHistory.slice(1).reverse().map((move, i) => <div className="navigation-item" key={`${move.at}-${i}`}><span className="navigation-dot"/><div><strong>Moved to window {move.windowId}</strong><span>{clock(move.at)} · captured independently of page activity</span></div></div>)}</div>}
-    {isLive && !tab.closedAt ? <div className="detail-actions"><button className="button secondary full-width" onClick={onFocus}>Go to tab<ExternalLink size={14}/></button><button className="text-button close-tab-button" onClick={onCloseTab}><X size={13}/>Close browser tab</button></div> : <div className="detail-footnote"><ShieldCheck size={12}/>{session.id === 'demo' ? 'A little preview of what’s possible.' : 'This moment is saved on your device.'}</div>}
+      {isLive && !tab.closedAt ? <div className="detail-actions"><button className="button secondary full-width" onClick={onFocus}>Go to tab<ExternalLink size={14}/></button>{tab.frozen ? <button className="button secondary full-width" onClick={onUnfreeze}><RefreshCw size={14}/>Return to original page</button> : <button className="button secondary full-width" onClick={onFreeze}><Snowflake size={14}/>Freeze tab</button>}<button className="text-button close-tab-button" onClick={onCloseTab}><X size={13}/>Close browser tab</button></div> : <div className="detail-footnote"><ShieldCheck size={12}/>{session.id === 'demo' ? 'A little preview of what\'s possible.' : 'This moment is saved on your device.'}</div>}
   </div></aside>;
 }
 

diff --git a/src/styles.css b/src/styles.css
@@ -155,6 +155,7 @@ main{padding:33px 34px 0;max-width:1800px;margin:auto}
 .folder-section.dragging,.saved-session.dragging{opacity:.4}
 .saved-session.drop-before::before,.saved-session.drop-after::after{content:"";position:absolute;left:0;right:0;height:2px;background:#8196f4;box-shadow:0 0 0 1px #8196f426;pointer-events:none;z-index:2}
 .saved-session.drop-before::before{top:0}.saved-session.drop-after::after{bottom:0}
+.saved-session.selected{background:#f6f8ff;box-shadow:inset 2px 0 #8196f4}
 .folder-section.drop-target{background:#f0f6ff;box-shadow:inset 0 0 0 1.5px #8196f4}
 .sessions-groups.drop-root{box-shadow:inset 0 0 0 1.5px #8196f4;border-radius:6px}
 /* Session rename / delete. */
@@ -175,3 +176,4 @@ main{padding:33px 34px 0;max-width:1800px;margin:auto}
 @media(max-width:760px){.app-shell{--sidebar-width:64px}}
 .tab-list-separator{display:grid;grid-template-columns:22px minmax(0,1fr) auto auto auto auto 16px;align-items:center;gap:6px;min-height:27px;padding:0 8px;background:#f8fafb;border:0;border-top:1px solid #edf0f2;border-bottom:1px solid #edf0f2;color:#89949e;font-size:7px;text-align:left;width:100%}.tab-list-separator:hover{background:#f3f7fc;color:#5f6a7d}.tab-list-separator strong{overflow:hidden;color:#697784;font-size:7px;font-weight:600;text-overflow:ellipsis;white-space:nowrap}.tab-list-separator .group-mark{width:18px;height:18px}.tab-list-separator .group-separator{color:#c2c9ce}.tab-list-separator .group-count{color:#a4adb5}.tab-list-separator .separator-chevron{display:grid;place-items:center;color:#a7adb7}.tab-list-separator:hover .separator-chevron{color:#77829a}.tab-list-separator.current{background:#f3f8f1;border-top-color:#dce9d9;border-bottom-color:#dce9d9}.current-group-label{padding:2px 4px;border-radius:4px;background:#e5f1e5;color:#719477;font-size:5px;font-weight:700;letter-spacing:.7px}.tab-list-row{min-height:34px!important;padding:0 8px!important}.tab-list-row .site-icon{width:20px;height:20px}.tab-list-row .tab-list-title{gap:6px}.tab-list-row .tab-list-title strong{font-size:8px}.tab-list-row .tab-list-title span{font-size:7px}.tab-list-row>span{font-size:7px}.tab-list-row.current{background:#fbfdf9}.tab-list-row.current:not(.selected){box-shadow:inset 2px 0 #9bbd91}
 @media(max-width:760px){.tab-list-separator{grid-template-columns:20px minmax(0,1fr) auto auto 16px;gap:4px;padding:0 5px}.tab-list-separator .group-count{display:none}.tab-list-separator .current-group-label{display:none}.tab-list-row{min-height:32px!important;padding:0 5px!important}.tab-list-row .site-icon{width:18px;height:18px}.tab-list-row .tab-list-title{gap:4px}.tab-list-row .tab-list-title strong{font-size:7px}.tab-list-row .tab-list-title span,.tab-list-row>span{font-size:6px}}
+.timeline-window-separator{height:30px;padding-left:34px;background:#fff;color:#949da8}.timeline-window-separator strong{font-weight:500;color:#7d8996}.desktop-separator{background:#f8fafb}.tab-list-separator{display:flex;gap:6px}.tab-list-separator .group-count{margin-left:auto}.tab-list-separator.window-separator{padding-left:30px;background:#fff;color:#949da8}.tab-list-separator.window-separator .group-mark{width:16px;height:16px;background:#f3f5f8;color:#9aa6b4}.tab-list-separator.window-separator>span:not(.group-mark):not(.group-count):not(.separator-chevron){color:#7d8996}.detail-actions{display:flex;flex-direction:column;gap:8px}.detail-actions .button{flex:none}

diff --git a/electron/tabline-extension/popup.js b/electron/tabline-extension/popup.js
@@ -51,6 +51,7 @@ async function update() {
   $('return').hidden = !state.frozen;
   $('whitelist').hidden = state.frozen || !state.freezable;
   $('whitelist').textContent = state.whitelisted ? 'Remove from whitelist' : 'Whitelist this tab';
+  $('close').hidden = false;
   $('freeze-all').hidden = false;
 }
 
@@ -66,14 +67,19 @@ $('whitelist').addEventListener('click', async () => {
   try { setBusy(true); await request('/extension/whitelist', { ...info(current, targetId), enabled: !state.whitelisted }); await update(); setBusy(false); } catch (error) { setBusy(false); showError(error); }
 });
 
+$('close').addEventListener('click', async () => {
+  try { setBusy(true); await request('/extension/close', info(current, targetId)); window.close(); } catch (error) { setBusy(false); showError(error); }
+});
+
 $('freeze-all').addEventListener('click', async () => {
   try {
     setBusy(true);
     const allTabs = await tabs({});
     const allTargets = new Map((await targets()).filter((item) => item.tabId !== undefined).map((item) => [item.tabId, item.targetId]));
-    const result = await request('/extension/freeze-all', { tabs: allTabs.map((tab) => info(tab, allTargets.get(tab.id))) });
+    const remainingTabs = allTabs.filter((tab) => tab.id !== current.id);
+    const result = await request('/extension/freeze-all', { tabs: remainingTabs.map((tab) => info(tab, allTargets.get(tab.id))), exclude: info(current, targetId) });
     for (const item of result.items || []) { const tab = allTabs.find((candidate) => candidate.id === item.tabId); if (tab) await chromeCall(chrome.tabs.update.bind(chrome.tabs), tab.id, { url: item.shortUrl }); }
-    $('status').textContent = `Frozen ${result.items?.length || 0} tabs across ${result.windows || 0} windows.`;
+    $('status').textContent = `Frozen ${result.items?.length || 0} other tabs across ${result.windows || 0} windows. This tab was left alone.`;
     setBusy(false);
   } catch (error) { setBusy(false); showError(error); }
 });

diff --git a/electron/tabline-extension/popup.html b/electron/tabline-extension/popup.html
@@ -15,8 +15,9 @@
       <button id="freeze" class="primary" hidden>Freeze this tab</button>
       <button id="return" class="primary" hidden>Return to original page</button>
       <button id="whitelist" class="secondary" hidden>Whitelist this tab</button>
+      <button id="close" class="secondary" hidden>Close this tab</button>
       <button id="freeze-all" class="secondary" hidden>Freeze all tabs</button>
-      <p class="scope">Freeze all includes every browser window and virtual desktop. Whitelisted pages are skipped.</p>
+      <p class="scope">Freeze all includes every other browser tab across every window and virtual desktop. Whitelisted pages are skipped.</p>
       <p id="error" class="error" hidden></p>
     </main>
     <script src="popup.js"></script>

diff --git a/README.md b/README.md
@@ -2,6 +2,12 @@
 
 A local-first Electron app that turns your Helium or Chrome browsing session into a visual timeline. See when every tab opened and closed, preview its thumbnail, and follow arrows back to the tab that opened it.
 
+## 0.1.5
+
+- Added session restoration with tab ordering, opener links, pinning, tab groups, and virtual-desktop placement when supported.
+- Added the Tabline companion tab freezer for persistent local short URLs and inactivity snapshots.
+- Refreshed the screenshots to show the current timeline and saved-session experience.
+
 ## Screenshots
 
 The timeline connects each tab to the tab that opened it, with thumbnails and a details panel.
